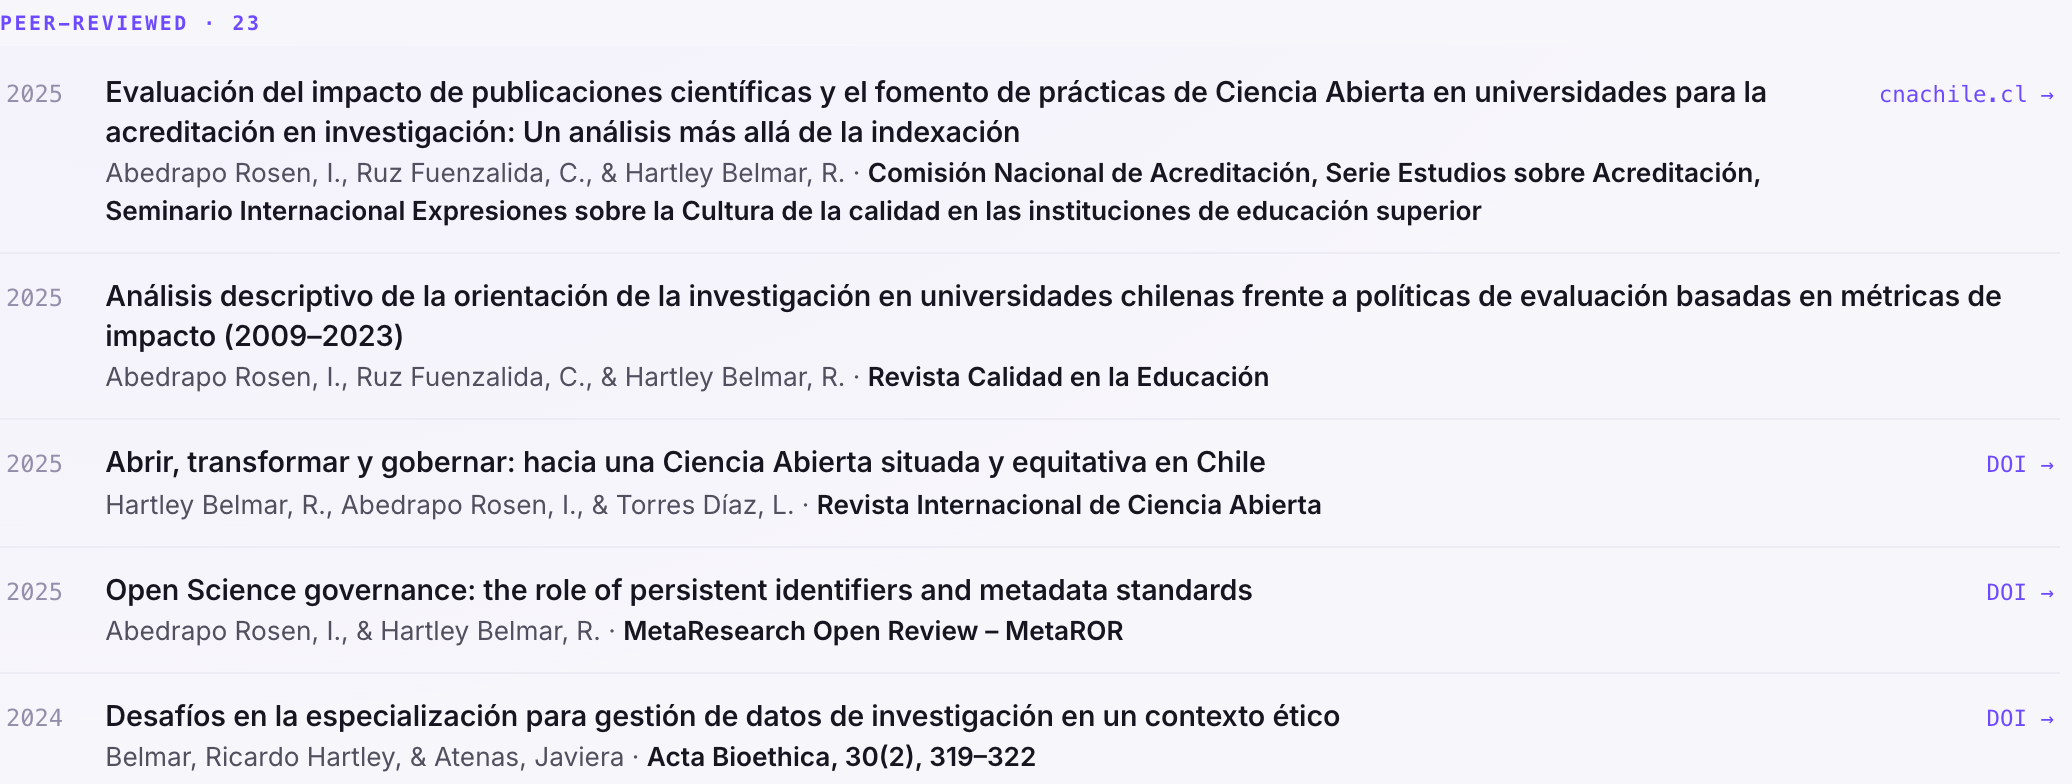
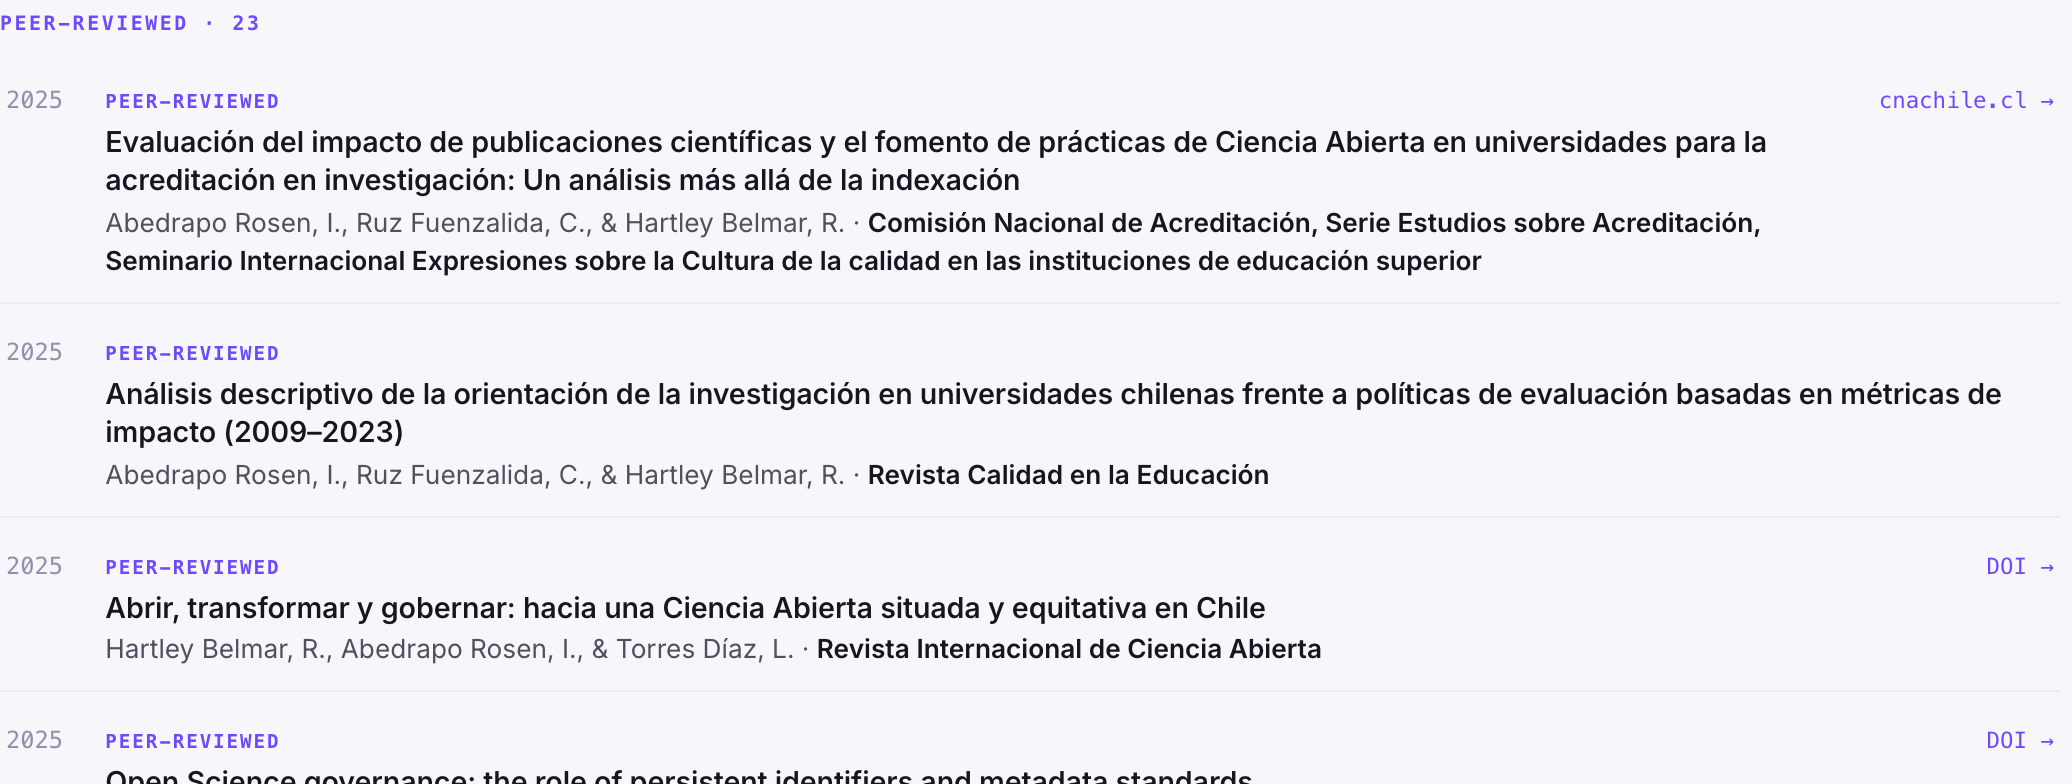
Hub: label peer-reviewed rows as the other list labels its own
Every non-peer-reviewed row named its category; the peer-reviewed rows named nothing, so the two lists read differently. The label names the review, not a genre, because the group holds a seminar series and a reviewed preprint beside the journal articles.

The screenshot script now unsticks the site header for the publications shot: with the panel below the fold, the element shot scrolled to it and the header covered its first rows.

diff --git a/index.html b/index.html
@@ -310,6 +310,9 @@ const PUBTYPE={
   preprints:{en:"Preprint",de:"Preprint",es:"Preprint"},
   other:{en:"Other",de:"Sonstiges",es:"Otro"},
 };
+/* Peer-reviewed rows carry a label too, so both lists read alike. It names the review,
+   not a genre: the group holds journal articles, a seminar series and a reviewed preprint. */
+const PEERTYPE={en:"Peer-reviewed",de:"Begutachtet",es:"Revisado por pares"};
 /* Two tabbed blocks: the path, then what he has put out. The first tab of each
    is the one that opens, so it is the only one a visitor sees without clicking. */
 const TAB_GROUPS={
@@ -536,10 +539,10 @@ function rowsWriting(){return DATA.writing.map(e=>`
 function rowsPubs(){const P=EXTRA.publications;
   const rest=Object.keys(PUBTYPE).flatMap(k=>(P[k]||[]).map(p=>({...p,kind:k})))
     .sort((a,b)=>(+b.year||0)-(+a.year||0));
-  return [["peerReviewed",P.peerReviewed||[]],["notPeerReviewed",rest]].map(([g,items])=>{if(!items.length)return"";
+  return [["peerReviewed",(P.peerReviewed||[]).map(p=>({...p,kind:"peerReviewed"}))],["notPeerReviewed",rest]].map(([g,items])=>{if(!items.length)return"";
   return `<div class="pgrp">${esc(PUBGRP[g][lang])} · ${items.length}</div>`+items.map(p=>`
     <div class="prow"><span class="pyear">${esc(p.year||"")}</span>
-      <span class="pmain">${p.kind?`<span class="ptype">${esc(PUBTYPE[p.kind][lang])}</span>`:""}
+      <span class="pmain"><span class="ptype">${esc((PUBTYPE[p.kind]||PEERTYPE)[lang])}</span>
       <div class="ptitle">${titleLink(p.title,p.url)}</div>
       <div class="pmeta">${esc(p.authors||"")}${p.venue?' · <b>'+esc(p.venue)+'</b>':''}</div></span>
       ${linkChip(p.url)}</div>`).join("");

diff --git a/README.md b/README.md
@@ -27,8 +27,9 @@ under the name: FAIR Repo Audit 10.5281/zenodo.21492530, ORCID Finder
   by topic (drag, filter, click to open the live app), below two tabbed blocks for the rest
   of the CV: education, experience, engagements and training first, then publications,
   writing and talks.
-![The peer-reviewed list, 23 entries. The link sits on the title, never on the whole row, so
-the year and the author line stay unstyled. The chip on the right names what the link
+![The peer-reviewed list, 23 entries, each row labelled "Peer-reviewed" above its title as
+the other list labels its own categories. The link sits on the title, never on the whole row,
+so the year and the author line stay unstyled. The chip on the right names what the link
 actually resolves to: "DOI" only for a real doi.org address, otherwise the bare host. The
 first row reads cnachile.cl, and the second, which has no URL yet, carries no chip at
 all.](docs/hub-publications.png)

diff --git a/CHANGELOG.md b/CHANGELOG.md
@@ -20,8 +20,9 @@ ships in numbered drops.
   experiments". README screenshots regenerated; the cloud image had still shown BiblioHelp
   and maDMP Gap, both removed earlier.
 - **Publications on the hub split in two: peer-reviewed and not.** The second list runs by
-  year and names each row's category (policy paper, guide, dataset, preprint, other). The CV
-  page keeps the finer categories.
+  year and names each row's category (policy paper, guide, dataset, preprint, other); rows
+  in the first carry a "Peer-reviewed" label so both lists read alike. The CV page keeps the
+  finer categories.
 - **"Working papers" is gone as a category.** Its six entries were checked against DataCite
   and Crossref and filed by what they are: the two Authorea records under a new `preprints`
   group, the InES survey under `datasets`, and the three Zenodo records (a diagram, an
